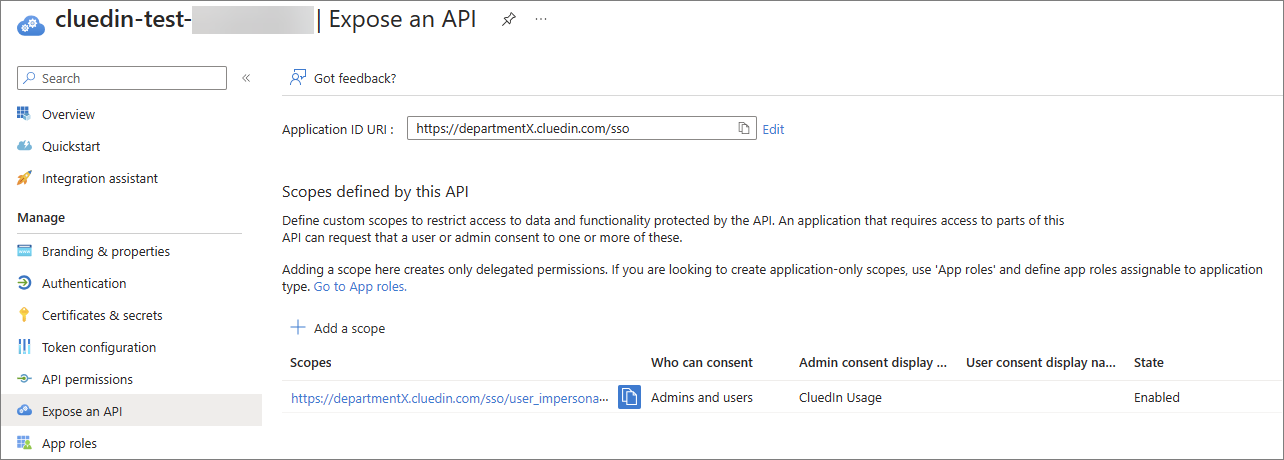
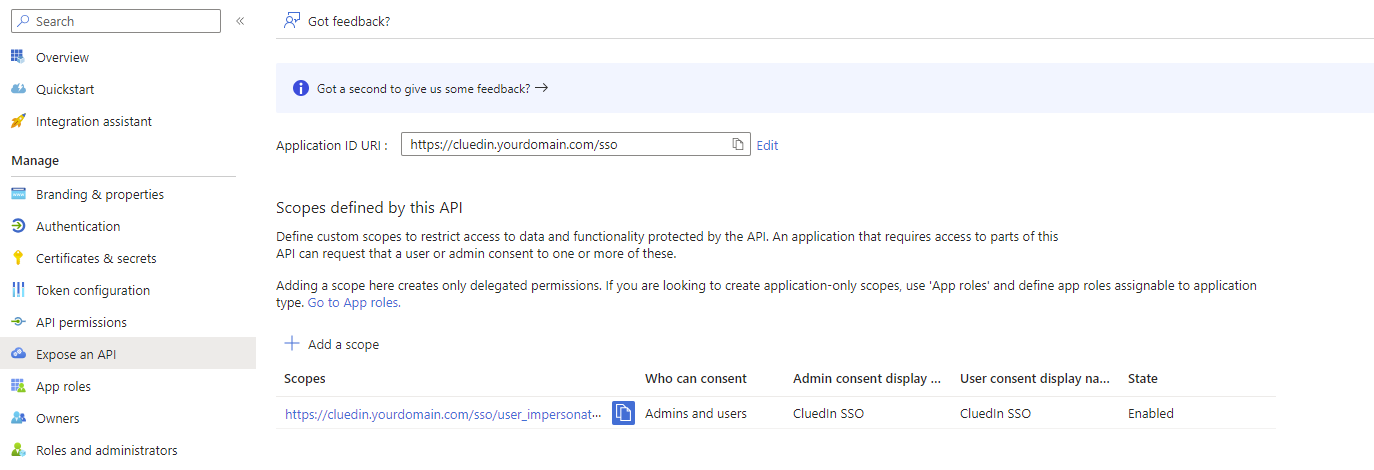
chore: Tidy up docs

diff --git a/docs/020-deployment/howtos/020-setup-sso.md b/docs/020-deployment/howtos/020-setup-sso.md
@@ -41,10 +41,11 @@ Registering your application establishes a trust relationship between your appli
 1. Under **Manage**, select **App registrations** > **New registration**.
 1. Enter a display **Name** for your application.
 ![Register_application_Name.png](../../assets/images/ama/howtos/configure-sso-2.png)
-1. Select the account types that can use the application.
+1. Select the **Supported account types** that can use the application.
+1. Leave Redirect URI empty for the time being.
 1. Select **Register**.
 
-    When the registration finishes, the Azure portal displays the **Overview** pane of the application registration. Here you can see the **Application (client) ID**. This value uniquely identifies your application. You'll need it to [enable SSO via Helm](#create-kubernetes-secret-and-enable-sso-via-helm).
+    When the registration finishes, the Azure portal displays the **Overview** pane of the application registration. Here you can see the **Application (client) ID**. This value uniquely identifies your application. Make note of this Id as you'll need it to [enable SSO via Helm](#create-kubernetes-secret-and-enable-sso-via-helm).
     ![Register_application_Application_ID.png](../../assets/images/ama/howtos/configure-sso-3.png)
 
 After you register the application, complete the following steps:
@@ -75,7 +76,7 @@ Redirect URI is the location to which the Microsoft identity platform redirects 
 In the setup below, we will be working with fictitious domain 'yourdomain.com' and the two subdomains:
 
 - 'app' – references the back-end application. By default, it is just app, but can be changed in the values file.
-- 'departmentX' – references the main CluedIn UI you would access.
+- 'cluedin' – references the main CluedIn URL you would access on a daily basis.
 
 **To add redirect URIs**
 
@@ -86,10 +87,9 @@ In the setup below, we will be working with fictitious domain 'yourdomain.com' a
     ![Add_redirect_URIs_Configure_platforms.png](../../assets/images/ama/howtos/configure-sso-5.png)
 
 1. In the **Configure Web** pane, specify the following:
-    1. In **Redirect URIs**, add a redirect URI for your application.
-
+    1. In **Redirect URIs**, add a redirect URI for your application.  
         `https://app.yourdomain.com`
-        
+
         ![Add_redirect_URIs_Redirect_URIs.png](../../assets/images/ama/howtos/configure-sso-6.png)
 
     1. In **Front channel logout URI**, add a logout URL for your application.
@@ -102,11 +102,9 @@ In the setup below, we will be working with fictitious domain 'yourdomain.com' a
 
         ![Add_redirect_URIs_ID_tokens.png](../../assets/images/ama/howtos/configure-sso-8.png)
 
-1. In the **Platform configurations** section, in **Web**, add additional URIs to the existing one:
-
-    `https://departmentX.yourdomain.com`
-     
-    `https://app.yourdomain.com/auth/signin-oidc`
+1. Back on the main page with the **Platform configurations** section, in **Web**, add additional URIs to the existing one:
+- `https://cluedin.yourdomain.com`
+- `https://app.yourdomain.com/auth/signin-oidc`
 
     ![Add_redirect_URIs_additional.png](../../assets/images/ama/howtos/configure-sso-9.png)  
 
@@ -122,8 +120,8 @@ When you register an application in the Azure portal, the Microsoft Graph API wi
 
 1. In the Azure portal, in **App registrations**, select your application.
 2. Select **API permissions**.
-3. In the **Configured permissions** section, select **Microsoft Graph**.
-![Add_API_permissions_MS_Graph.png](../../assets/images/ama/howtos/configure-sso-10.png)
+3. In the **Configured permissions** section, click on the existing **Microsoft Graph** entry.
+    ![Add_API_permissions_MS_Graph.png](../../assets/images/ama/howtos/configure-sso-10.png)
 4. In the right pane, select the following permissions: **email**, **offline_access**, **openid**, and **profile**. At the bottom of the pane, select **Update permissions**.
 The API permissions for Microsoft Graph are updated.
 ![Add_API_permissions_Updated.png](../../assets/images/ama/howtos/configure-sso-11.png)
@@ -137,13 +135,16 @@ You need to register a web API with the Microsoft identity platform and expose i
 **To expose the API**
 
 1. In the Azure portal, in **App registrations**, select your application.
-2. Select **Expose an API**.
-3. In the **Scopes defined by this API** section, select **Add a scope**.
-4. Specify the following scope attributes:
-- **Scope name** – `https://www.cluedin.net/sso/user_impersonation`
-- **Who can consent** – **Admins and Users**
-- **Authorized client applications** – `https://www.cluedin.net/sso/user_impersonation`
-![expose_api.png](../../assets/images/ama/howtos/expose_api.png)
+1. Select **Expose an API**.
+1. In the **Scopes defined by this API** section, select **Add a scope**.
+1. For the first time setup, you will need to specify the `Application ID URI`. For this, use your frontend url with `/sso` appended. (ie. `https://cluedin.yourdomain.com/sso`)
+    ![configure-sso-scopename.png](../../assets/images/ama/howtos/configure-sso-scopename.png)
+1. Specify the following scope attributes and then click `Add scope`:
+    - **Scope name**: `user_impersonation`
+    - **Who can consent**: `Admins and Users`
+    - **Admin consent display name**: `CluedIn SSO`
+    - **Admin consent description**: `CluedIn SSO`
+    ![expose_api.png](../../assets/images/ama/howtos/expose_api.png)
 
 For detailed instructions on how to configure an app to expose web API, see [Microsoft documentation](https://learn.microsoft.com/en-us/azure/active-directory/develop/quickstart-configure-app-expose-web-apis).
  
@@ -190,7 +191,7 @@ The following table provides a list of the CluedIn application roles and recomme
 
 ## Create Kubernetes secret and enable SSO via Helm
 
-After you complete the Azure application registration and app roles configuration, you need to enable the SSO feature on the CluedIn platform. Thus, SSO will become available to users when signing in to CluedIn.
+After you complete the Azure application registration and app roles configuration, this will then need to be enabled on the CluedIn platform. As this touches the inner workings of Kubernetes, if you prefer, a member of CluedIn will be able to facilitate these steps for you.
 
 **Prerequisites**
 
